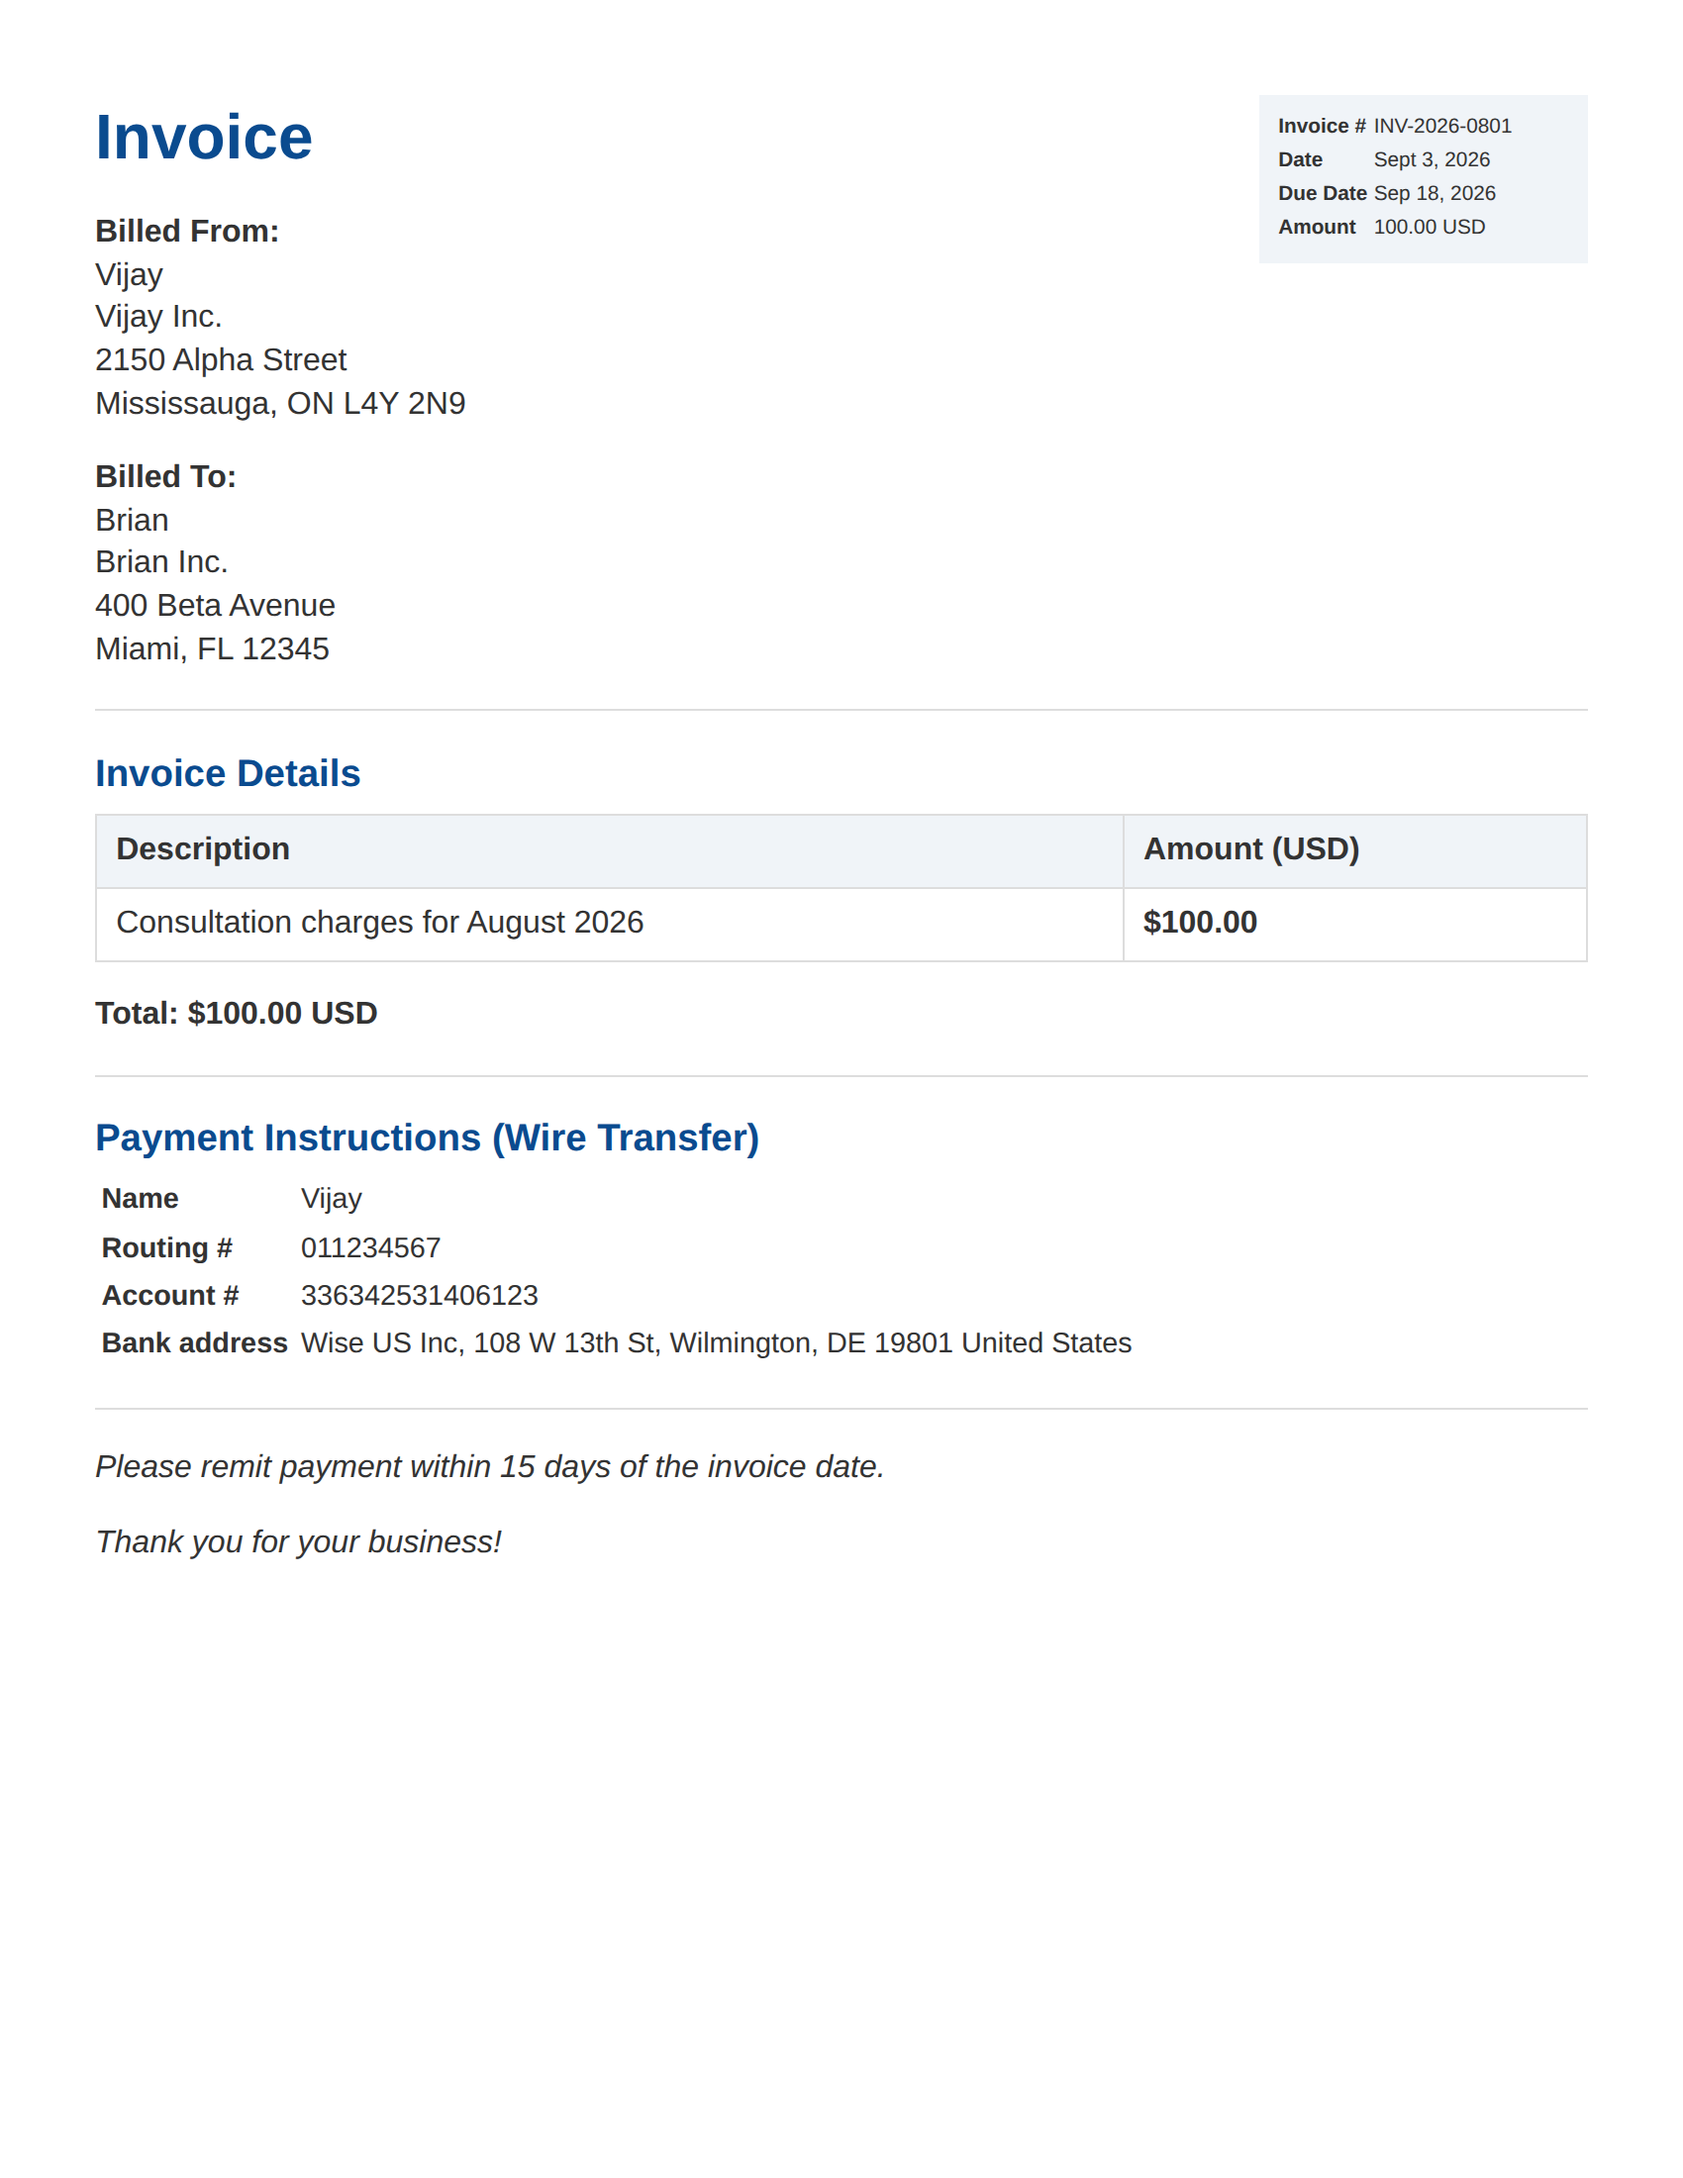
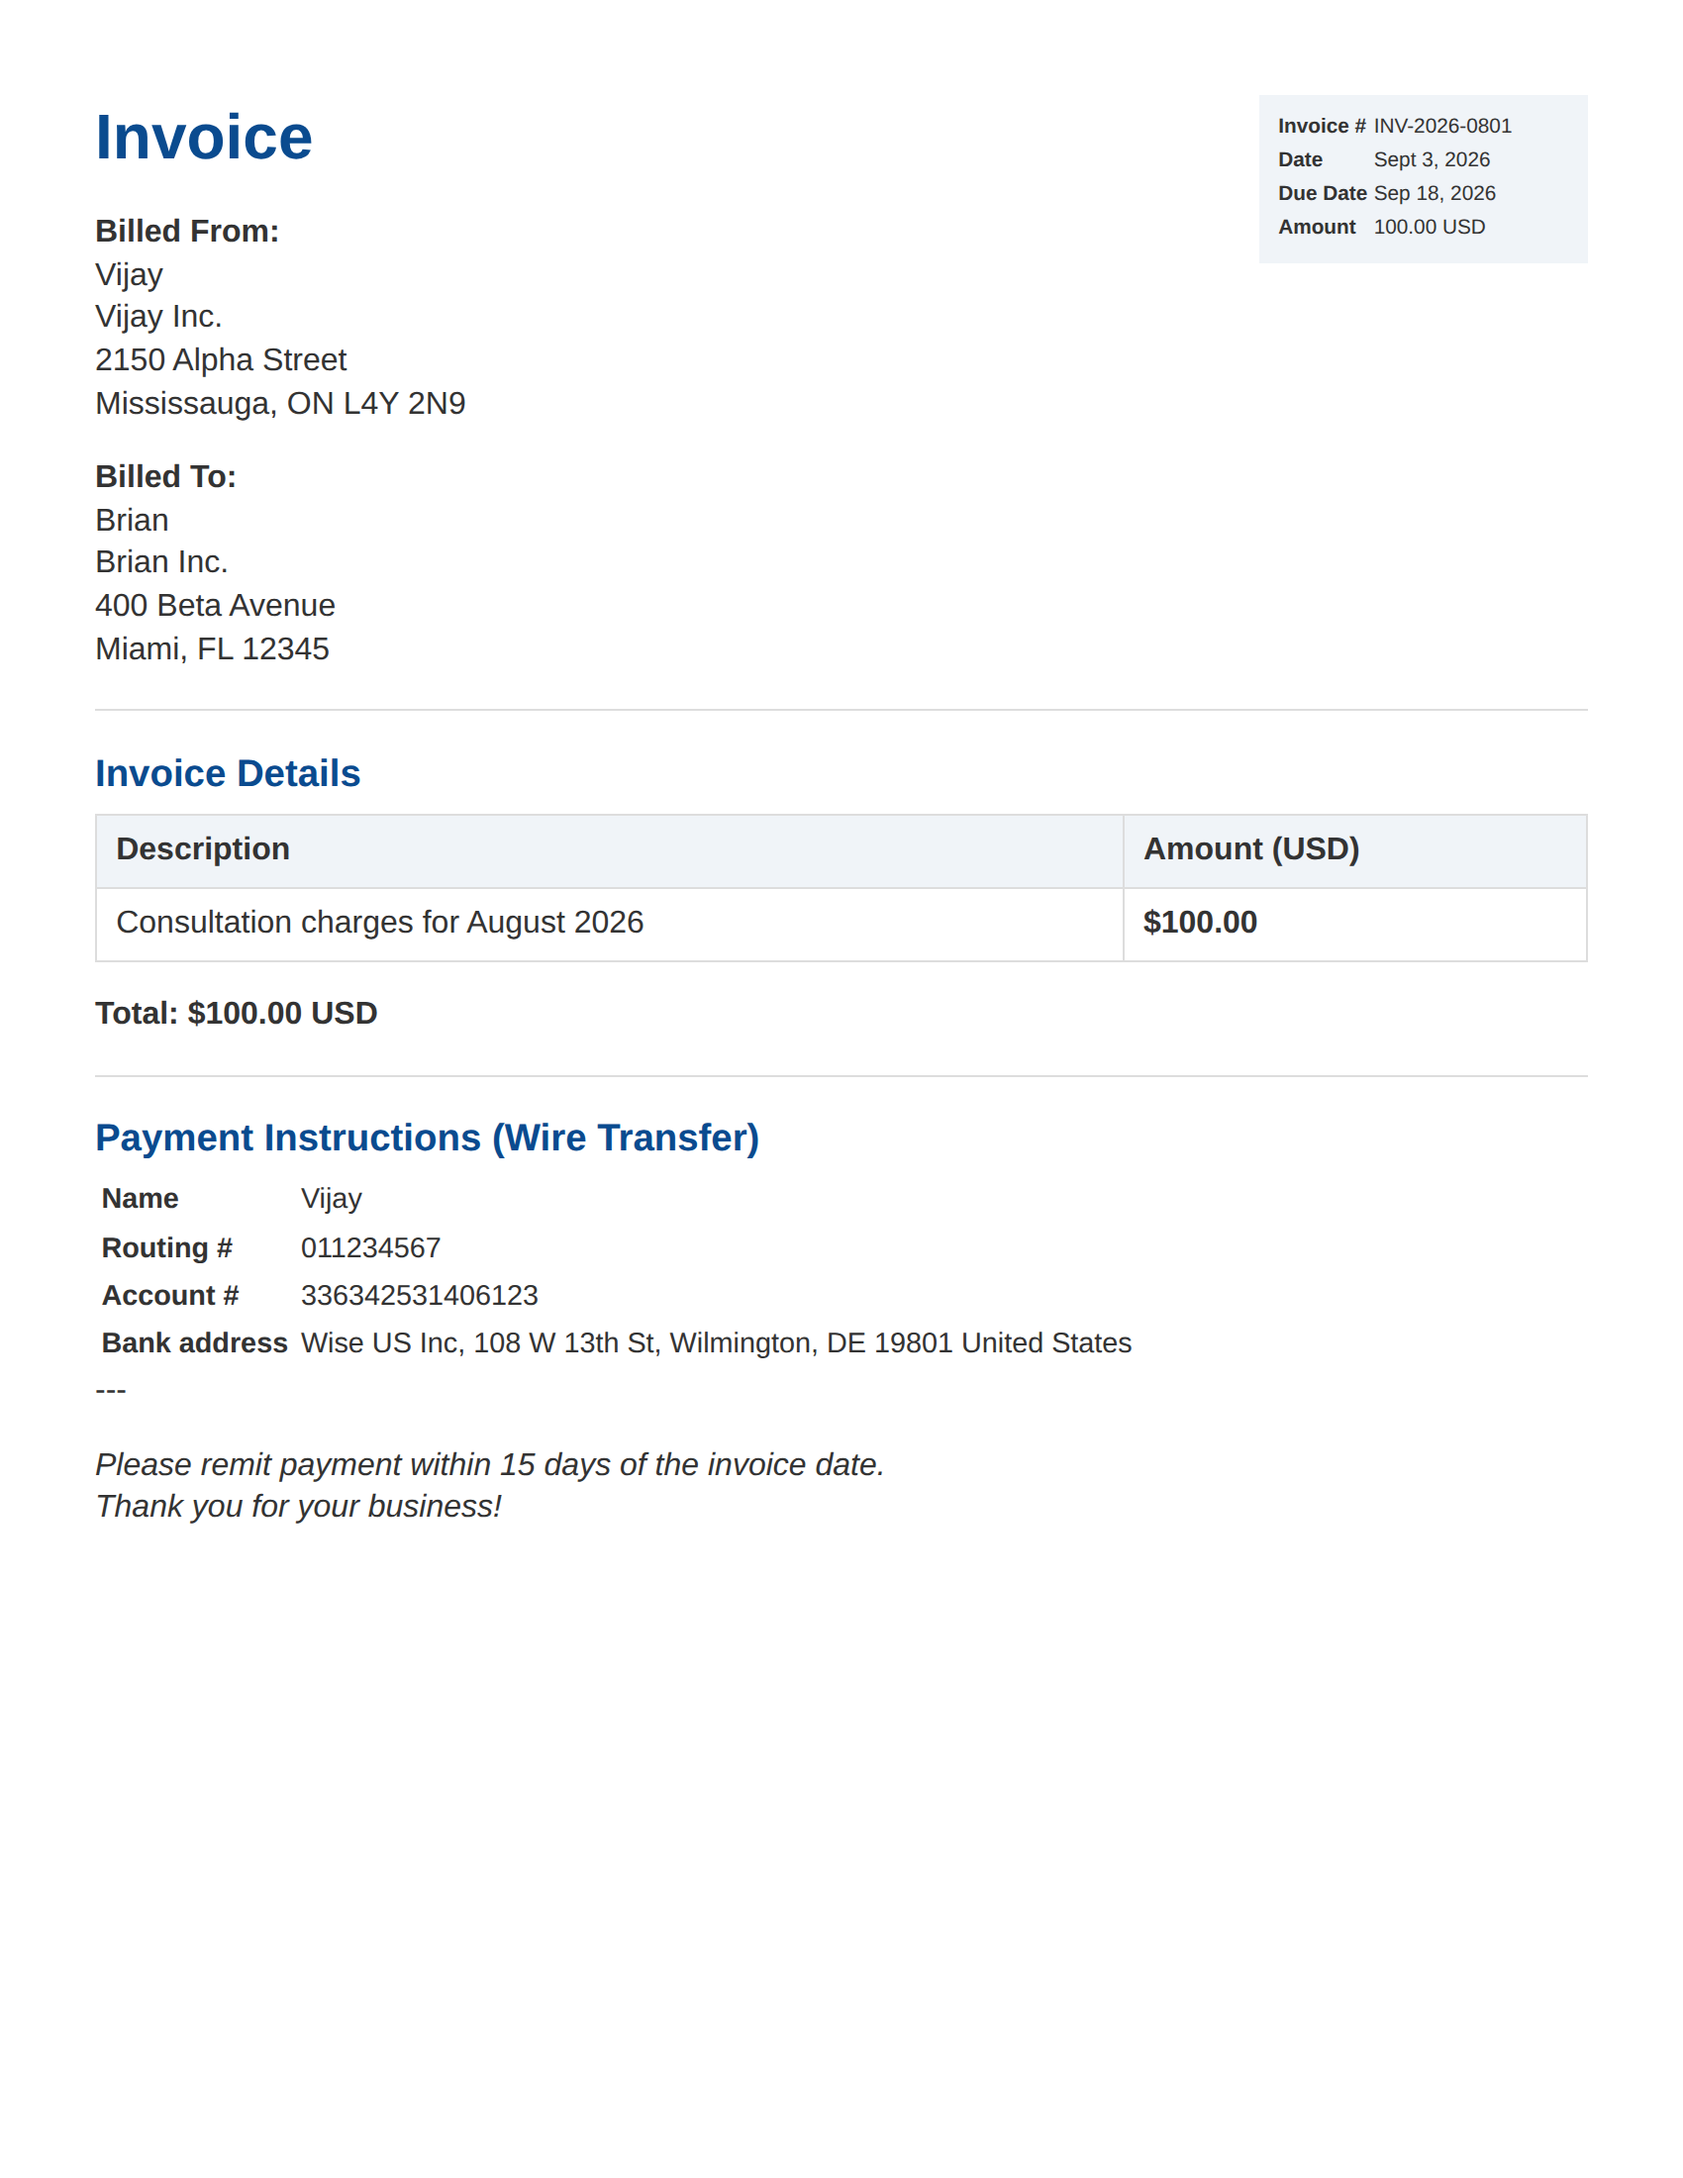
Switch invoice template from Handlebars HTML to Markdown
Keep Markdown as the authoring format (matching the original invoice.md),
with light {{placeholders}} for monthly JSON injection during generate.

Changed region(s): [[0.0624, 0.6491, 0.53, 0.7109]]

diff --git a/scripts/generate-invoice.js b/scripts/generate-invoice.js
@@ -3,18 +3,22 @@ import { promises as fs } from 'node:fs';
 import path from 'node:path';
 import { fileURLToPath } from 'node:url';
 import Handlebars from 'handlebars';
+import { marked } from 'marked';
 import puppeteer from 'puppeteer-core';
 
 const __dirname = path.dirname(fileURLToPath(import.meta.url));
 const WORKSPACE_DIR = path.resolve(__dirname, '..');
 
-const TEMPLATE_PATH = path.join(WORKSPACE_DIR, 'src/templates/invoice.hbs');
+const TEMPLATE_PATH = path.join(WORKSPACE_DIR, 'src/templates/invoice.md');
 const STYLES_PATH = path.join(WORKSPACE_DIR, 'src/styles/invoice.css');
 const DATA_PATH = path.join(WORKSPACE_DIR, 'src/data/invoice-input.json');
 const OUTPUT_DIR = path.join(WORKSPACE_DIR, 'output');
+const MD_OUT = path.join(OUTPUT_DIR, 'invoice.md');
 const HTML_OUT = path.join(OUTPUT_DIR, 'invoice.html');
 const PDF_OUT = path.join(OUTPUT_DIR, 'invoice.pdf');
 const PREVIEW_OUT = path.join(OUTPUT_DIR, 'preview.png');
+
+marked.setOptions({ gfm: true, breaks: true });
 
 function resolveChromeExecutable() {
   const candidates = [
@@ -30,7 +34,24 @@ function resolveChromeExecutable() {
   return candidates[0];
 }
 
-async function renderHtml() {
+function wrapHtml(bodyHtml, styles) {
+  return `<!DOCTYPE html>
+<html lang="en">
+<head>
+  <meta charset="UTF-8" />
+  <meta name="viewport" content="width=device-width, initial-scale=1.0" />
+  <title>Invoice</title>
+  <style>
+${styles}
+  </style>
+</head>
+<body>
+${bodyHtml}
+</body>
+</html>`;
+}
+
+async function renderMarkdown() {
   const [templateSource, styles, rawData] = await Promise.all([
     fs.readFile(TEMPLATE_PATH, 'utf-8'),
     fs.readFile(STYLES_PATH, 'utf-8'),
@@ -38,10 +59,12 @@ async function renderHtml() {
   ]);
 
   const data = JSON.parse(rawData);
-  const template = Handlebars.compile(templateSource);
-  const html = template({ ...data, styles });
+  const markdown = Handlebars.compile(templateSource)(data);
+  const bodyHtml = marked.parse(markdown);
+  const html = wrapHtml(bodyHtml, styles);
 
   await fs.mkdir(OUTPUT_DIR, { recursive: true });
+  await fs.writeFile(MD_OUT, markdown, 'utf-8');
   await fs.writeFile(HTML_OUT, html, 'utf-8');
   return html;
 }
@@ -83,8 +106,9 @@ async function renderArtifacts(html) {
 }
 
 async function main() {
-  console.log('Compiling invoice template…');
-  const html = await renderHtml();
+  console.log('Compiling invoice markdown…');
+  const html = await renderMarkdown();
+  console.log(`Wrote ${path.relative(WORKSPACE_DIR, MD_OUT)}`);
   console.log(`Wrote ${path.relative(WORKSPACE_DIR, HTML_OUT)}`);
 
   console.log('Rendering PDF and preview PNG…');

diff --git a/src/mcp/index.ts b/src/mcp/index.ts
@@ -26,7 +26,7 @@ function resolveWorkspacePath(relativePath: string): string {
 // 1. Read Template / Style
 mcp.addTool({
   name: 'read_template_file',
-  description: 'Read contents of a template or stylesheet file (e.g. src/templates/invoice.hbs).',
+  description: 'Read contents of a template or stylesheet file (e.g. src/templates/invoice.md).',
   parameters: z.object({
     filePath: z.string().describe('Relative path to file inside repository.'),
   }),

diff --git a/src/templates/invoice.md b/src/templates/invoice.md
@@ -1,0 +1,53 @@
+# Invoice
+
+<div class="meta">
+
+| Name | Value |
+|----|-----:|
+| **Invoice #** | {{invoiceNumber}} |
+| **Date** | {{date}} |
+| **Due Date** | {{dueDate}} |
+| **Amount** | {{total}} {{currency}} |
+
+</div>
+
+**Billed From:**  
+{{from.name}}  
+{{from.company}}  
+{{from.address}}  
+
+**Billed To:**  
+{{to.name}}  
+{{to.company}}  
+{{to.address}}  
+
+---  
+
+## Invoice Details
+
+| Description                              | Amount ({{currency}}) |
+|------------------------------------------|------------:|
+{{#each lineItems}}
+| {{description}} | **${{amount}}** |
+{{/each}}
+
+**Total:** **${{total}} {{currency}}**
+
+---  
+
+## Payment Instructions (Wire Transfer)
+
+<div class="wire">
+
+| Name | Value |
+|---|---:|
+| **Name** | {{payment.name}} |
+| **Routing #** | {{payment.routingNumber}} | 
+| **Account #** | {{payment.accountNumber}} |
+| **Bank address** | {{payment.bankAddress}} |
+
+</div>
+---  
+
+*Please remit payment within {{paymentTermsDays}} days of the invoice date.*  
+*Thank you for your business!*
